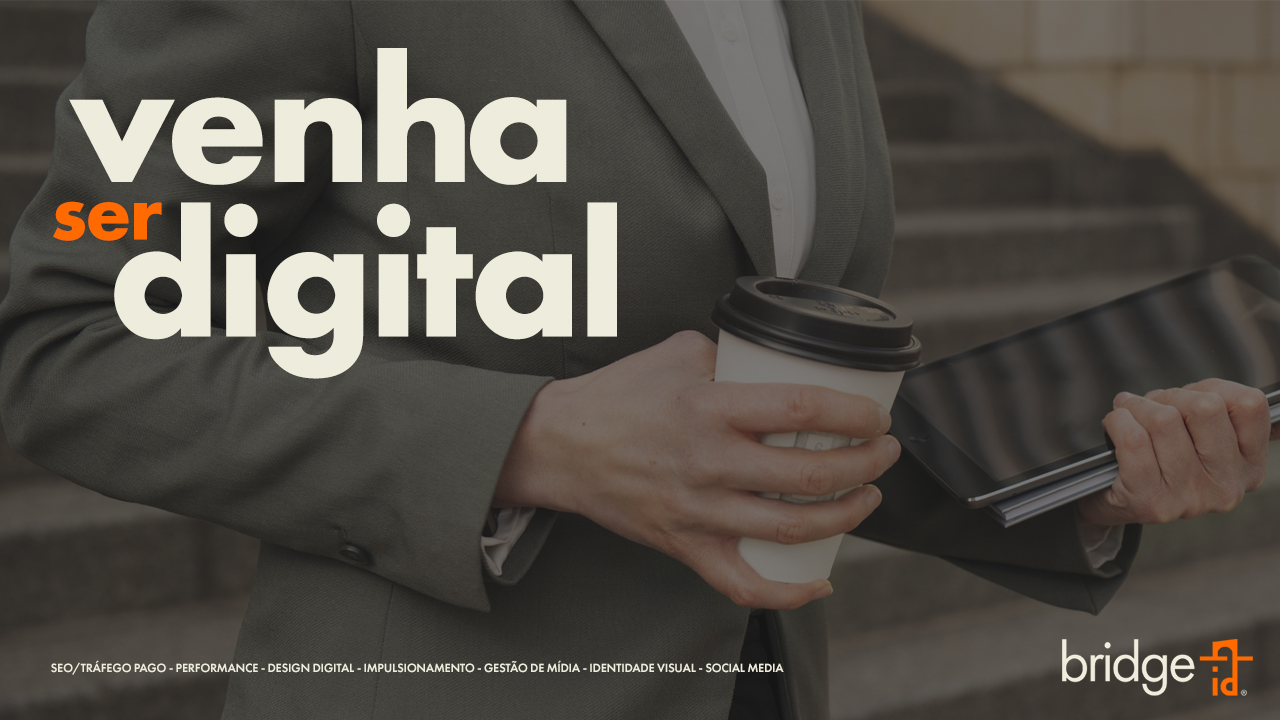
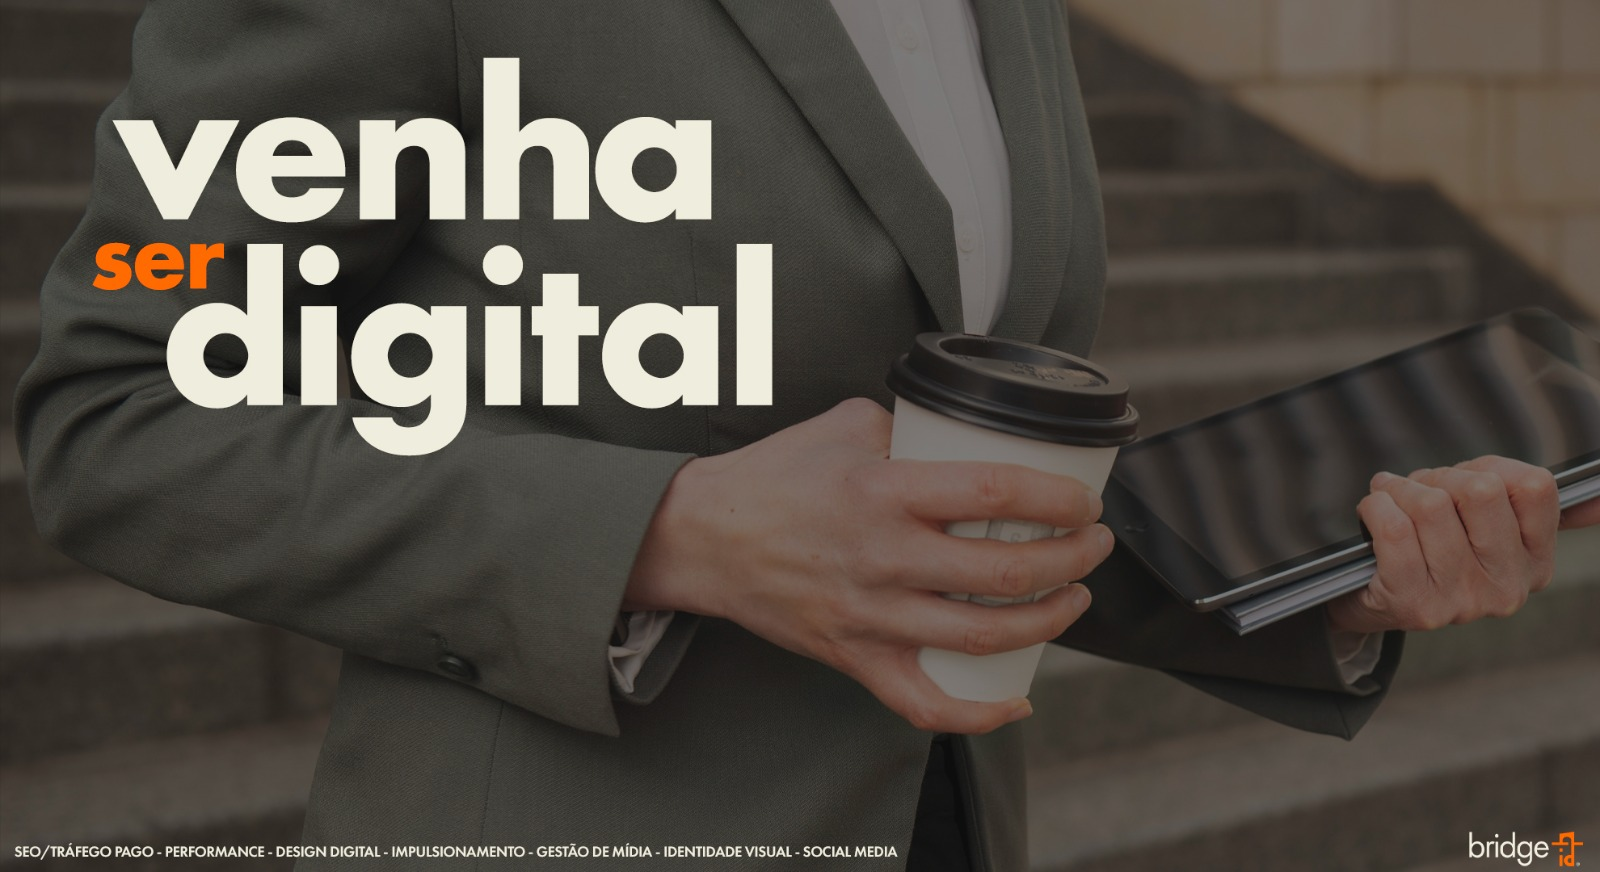
update

diff --git a/index.html b/index.html
@@ -67,7 +67,7 @@
 
 
     <div class="top-mobile">
-        <img src="imagens/backgrund-mobile.png" alt="bridgeassessoriadigital">
+        <img src="imagens/background-bridge-mobile.jpg" alt="bridgeassessoriadigital">
             <button class="animated-button">
                 <svg viewBox="0 0 24 24" class="arr-2" xmlns="http://www.w3.org/2000/svg">
                   <path

diff --git a/style.css b/style.css
@@ -587,9 +587,10 @@ footer {
 
 
     .top-mobile img {
-        width: 100%; /* Ajusta a largura da imagem para cobrir a largura da tela */
+        width: 100%;
         height: auto;
         opacity: 0.9;
+        padding-top: 15%;
     }
     
     .top-mobile {
